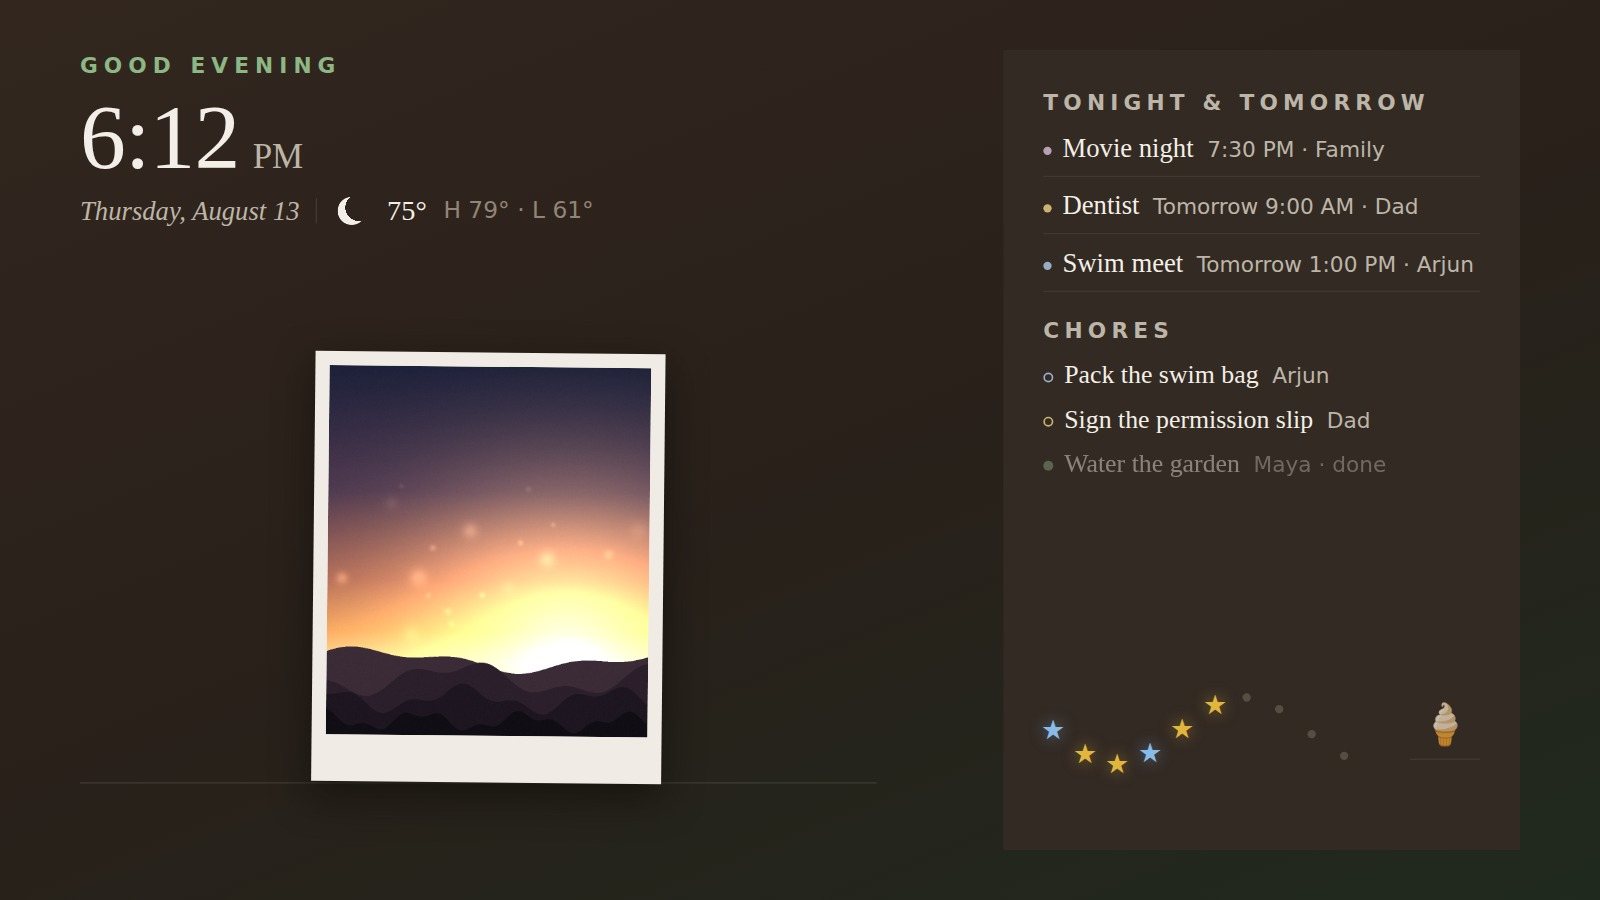
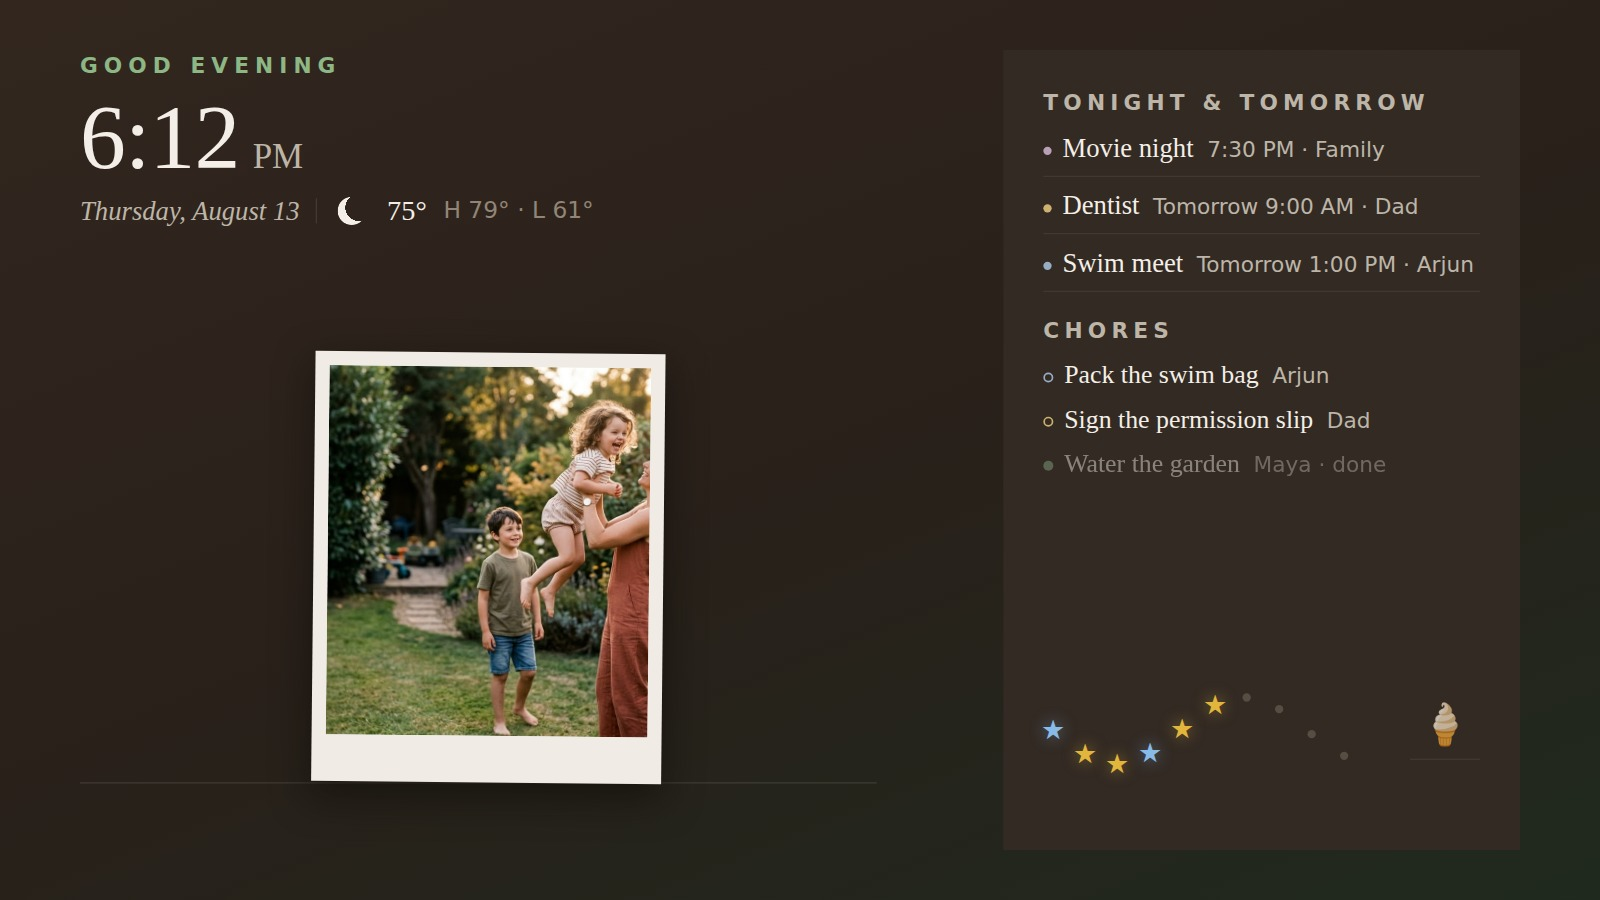
Put a real family on the wall
Swaps the generated gradient for an AI-generated family photograph, which is
what the Side veil design was actually composed around. The difference is the
whole point of the layout: the veil now falls across shaded hedge on the left
while the family sits in the clear right two-thirds, so the type reads and the
photograph is still a photograph. The gradient could never show that.

The people do not exist. That is what makes these safe to commit where a real
photo would not be — the source images stay in gitignored dev-photos/ and only
the rendered screenshots are tracked. Provenance notes in README, docs/social
and PHOTO-PROMPTS now say AI-generated rather than "synthetic", which was true
but vague once actual people appeared in the frame.

shots.mjs grows per-shot photo selection, with shots grouped so the dev server
restarts once per photo rather than once per shot (VITE_DEV_PHOTO_URL is baked
in at boot). A missing photo warns and falls back to the solid no-photo wall,
which is a real supported state rather than an error.

That change surfaced a bug in the script worth recording: spawn("npx", …).kill()
signals npx, not the vite it execs, so the old server survived and held the
port; the next start failed on --strictPort while the stale server kept
answering the readiness probe, and every later shot was silently captured
against the PREVIOUS photo. Fixed by spawning detached and killing the process
[…]

Changed region(s): [[0.1875, 0.4044, 0.4062, 0.84]]

diff --git a/docs/social/README.md b/docs/social/README.md
@@ -25,13 +25,15 @@ The screenshots are embedded by relative path, so a new wall photo flows all the
 way through: generate a photo, re-run `shots.mjs`, re-run `social.mjs`, and the
 carousel updates itself.
 
-## Getting a better photo behind the wall
+## The photo behind the wall
 
-The shipped screenshots use a **generated** gradient landscape, not a
-photograph — no family photo is ever committed to this repository. For demo
-images with actual people in them, see
-[`docs/PHOTO-PROMPTS.md`](../PHOTO-PROMPTS.md): prompts engineered against the
-veil geometry, for a family that doesn't exist.
+The family in these assets is **AI-generated and does not exist**. No real
+family photo is ever committed to this repository, and the source images live in
+gitignored `dev-photos/` rather than in git.
+
+To swap in your own, see [`docs/PHOTO-PROMPTS.md`](../PHOTO-PROMPTS.md): prompts
+engineered against the veil geometry, since the wall's scrim covers the left
+third and a photo with its subject on the left is an invisible photo.
 
 ## Typography
 

diff --git a/docs/PHOTO-PROMPTS.md b/docs/PHOTO-PROMPTS.md
@@ -126,5 +126,7 @@ image can never reach a build. Real family photos belong in the Supabase Storage
 `photos` bucket, behind a signed URL. Anything committed is in git history
 permanently — that is not recoverable by deleting it later.
 
-The images in `docs/screenshots/` are generated, not photographed, for exactly
-this reason.
+The family in `docs/screenshots/` and `docs/social/` was generated from prompt 1
+below. Those people do not exist, which is exactly why those images are safe to
+commit and a real photo of your own would not be. The source files stay in
+gitignored `dev-photos/`; only the rendered screenshots are tracked.

diff --git a/README.md b/README.md
@@ -166,7 +166,8 @@ silently.
 
 **MIT licensed.** Fork it, rename the family, hang it on your own wall.
 
-<sub>Screenshots are the real app on mock data. The photograph is synthetic —
-no family photo is committed to this repository, ever.</sub>
+<sub>Screenshots are the real app on mock data. The people in them are
+AI-generated and do not exist — no real family photo is committed to this
+repository, ever.</sub>
 
 </div>
